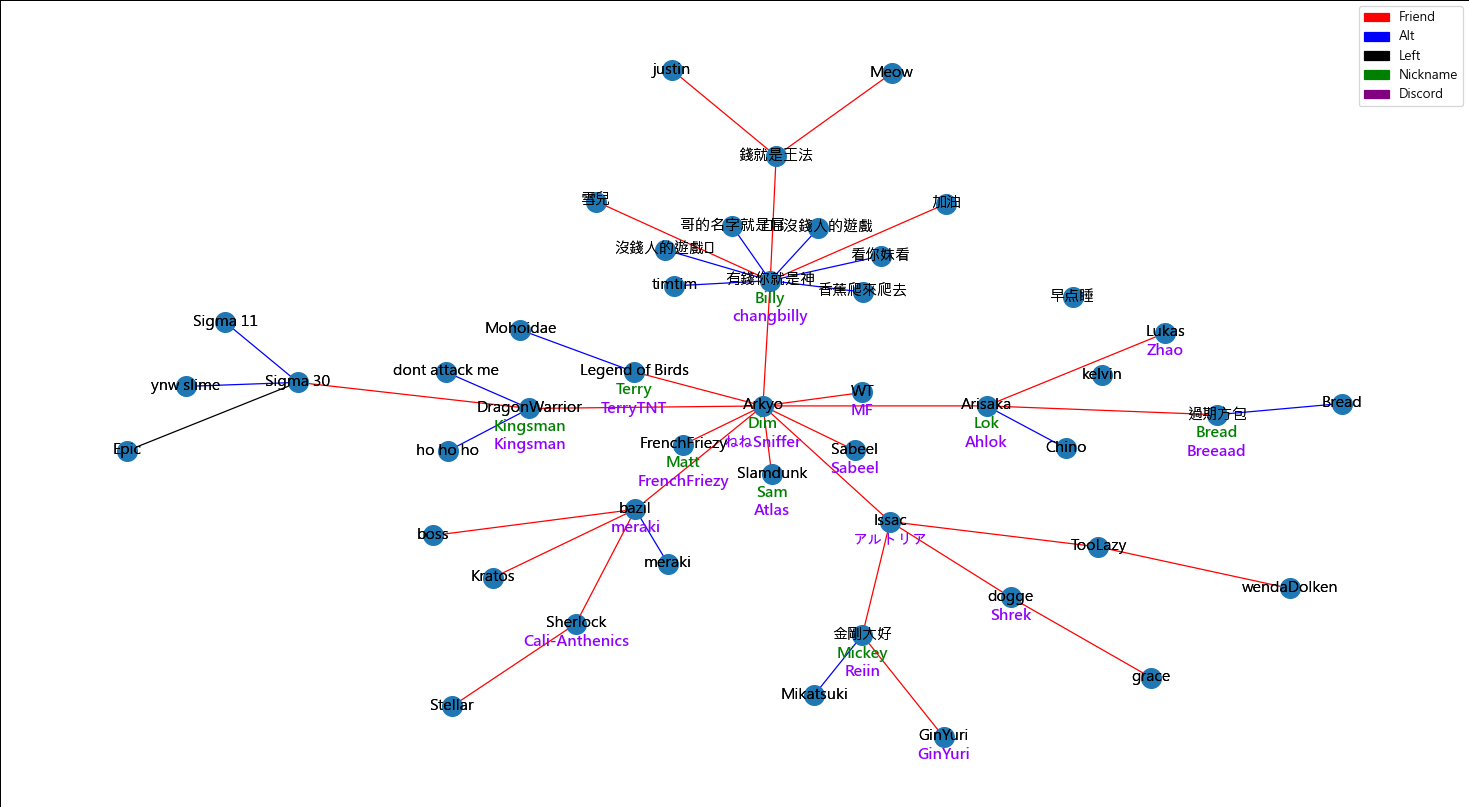
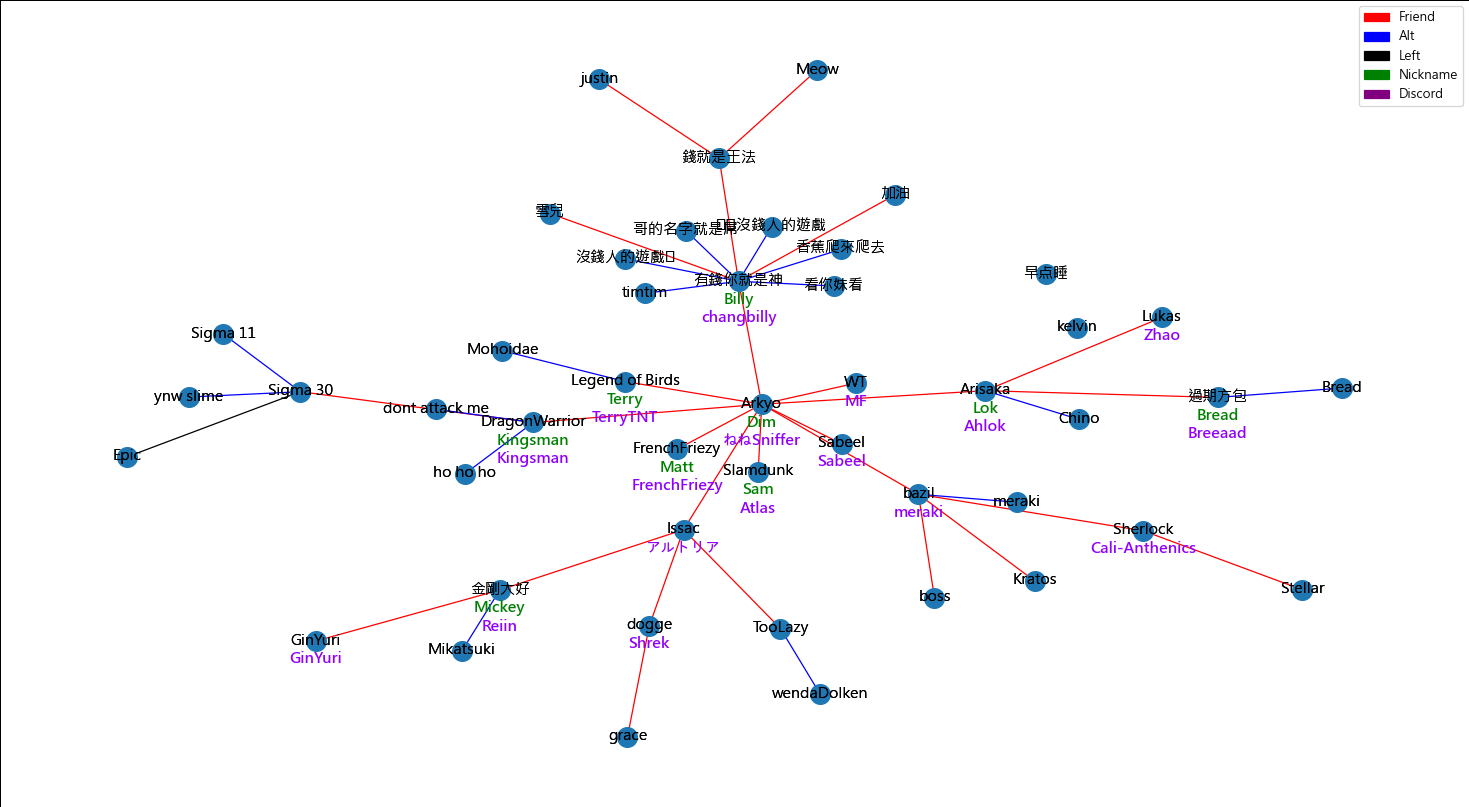
Update relation

diff --git a/relation/relation.py b/relation/relation.py
@@ -94,7 +94,7 @@ add_fd('Arkyo', 'Sabeel', discord='Sabeel')
 add_fd('有錢你就是神', '加油')
 add_fd('Sherlock', 'Stellar')
 add_fd('Arisaka', 'Lukas', discord='Zhao')
-add_fd('TooLazy', 'wendaDolken')
+add_alt('TooLazy', 'wendaDolken')
 
 
 layout = nx.kamada_kawai_layout(g)
